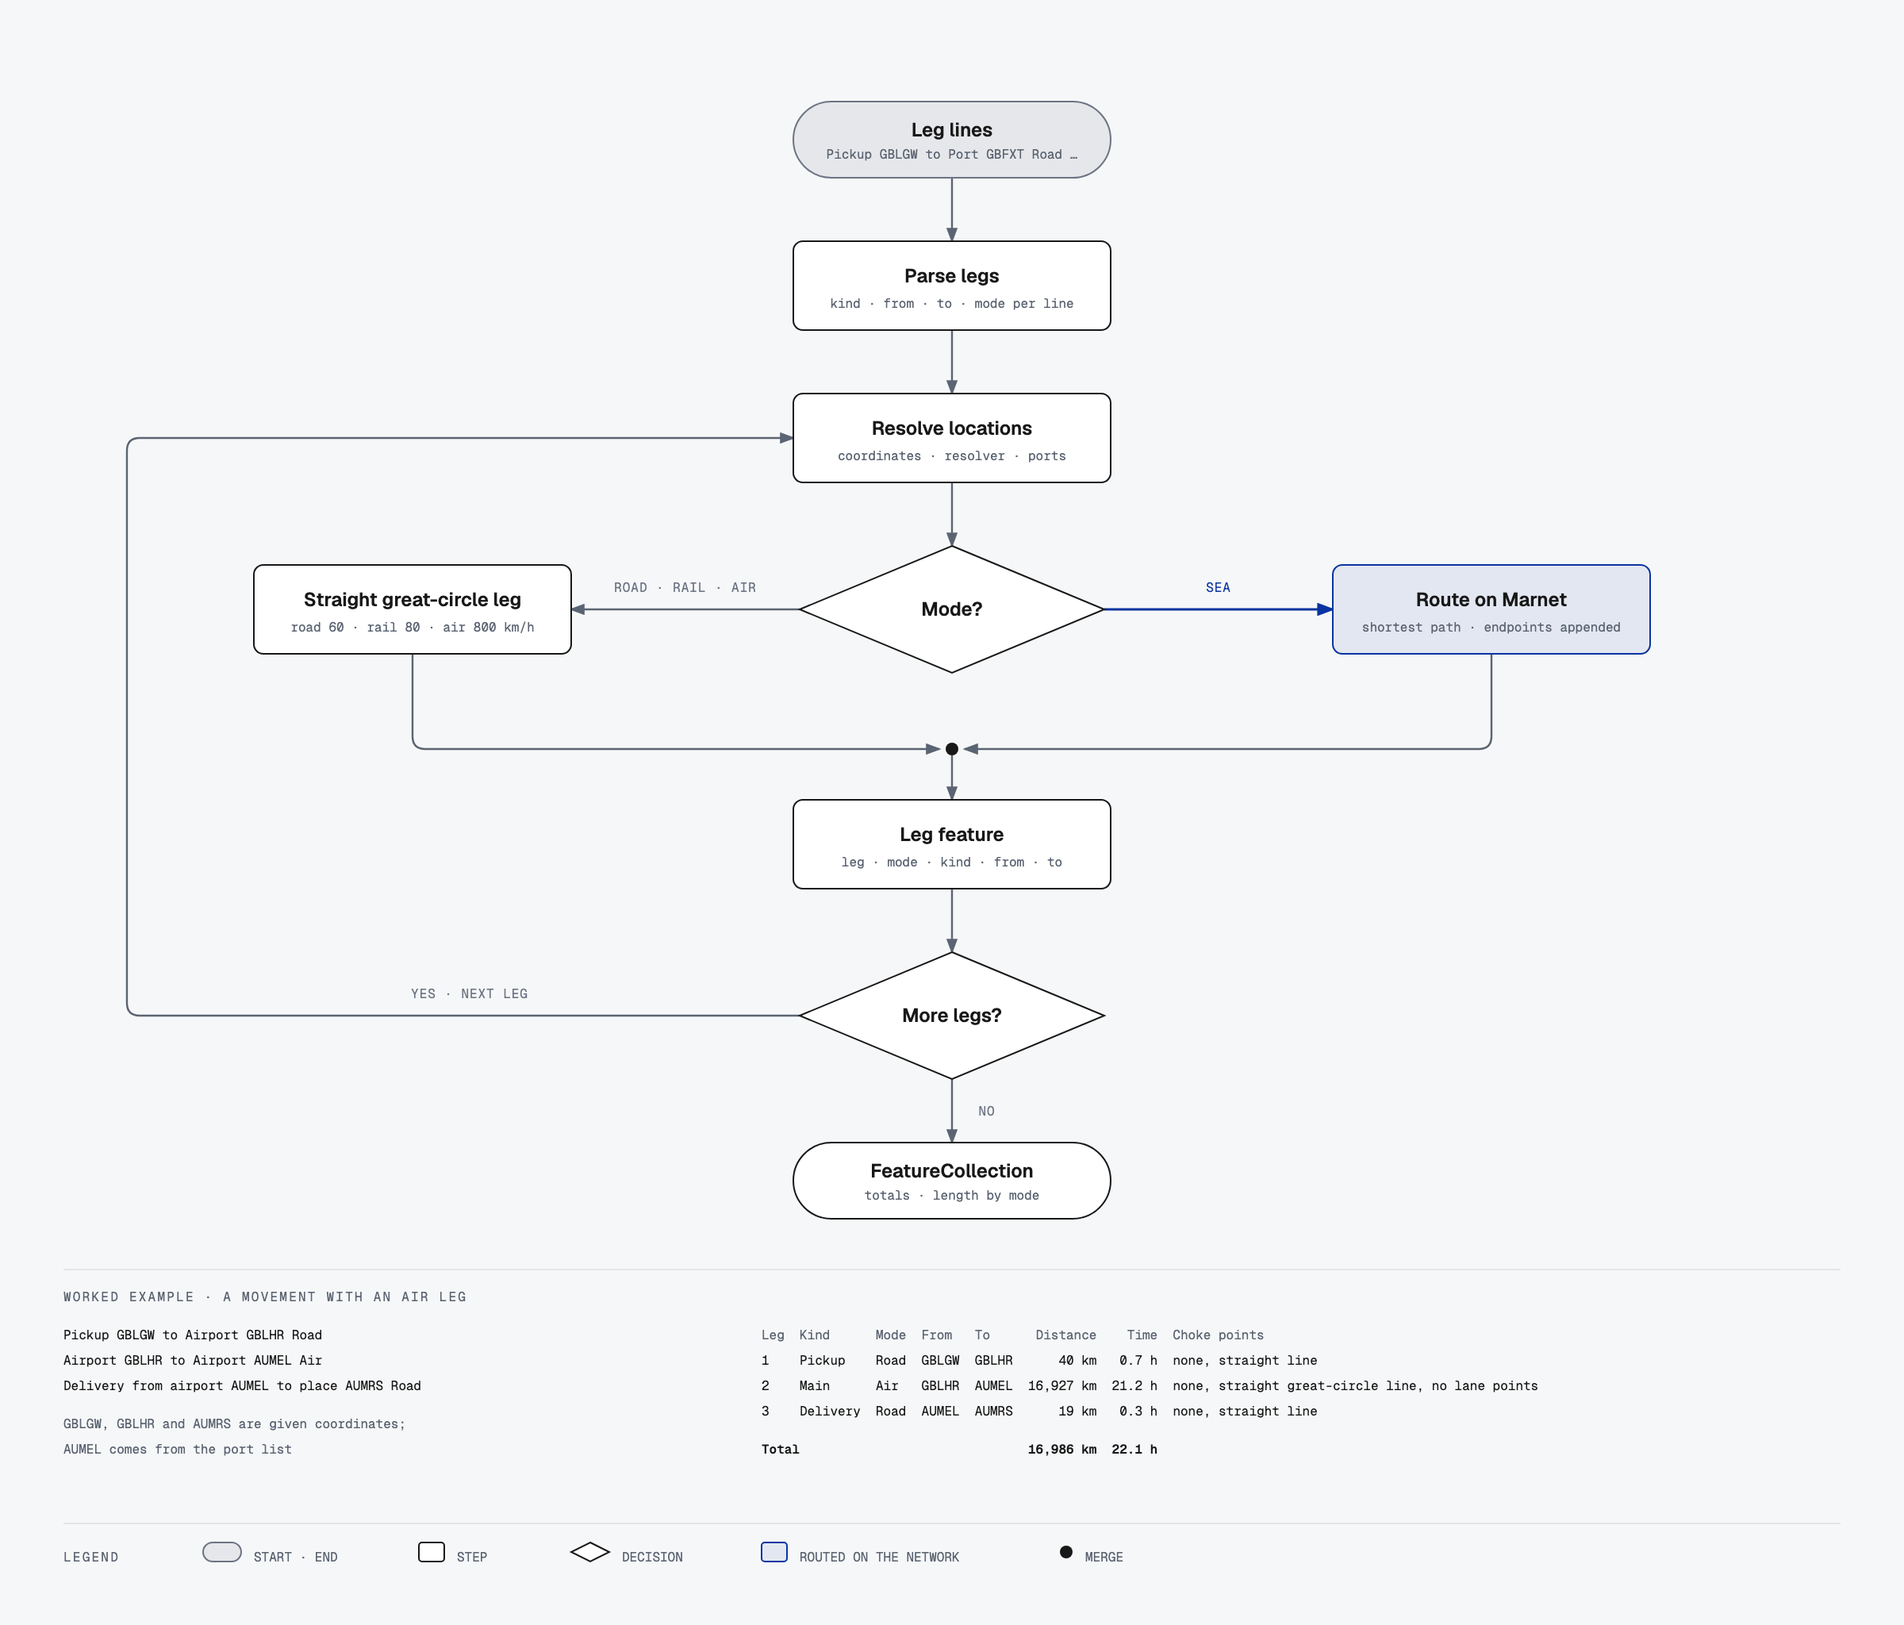
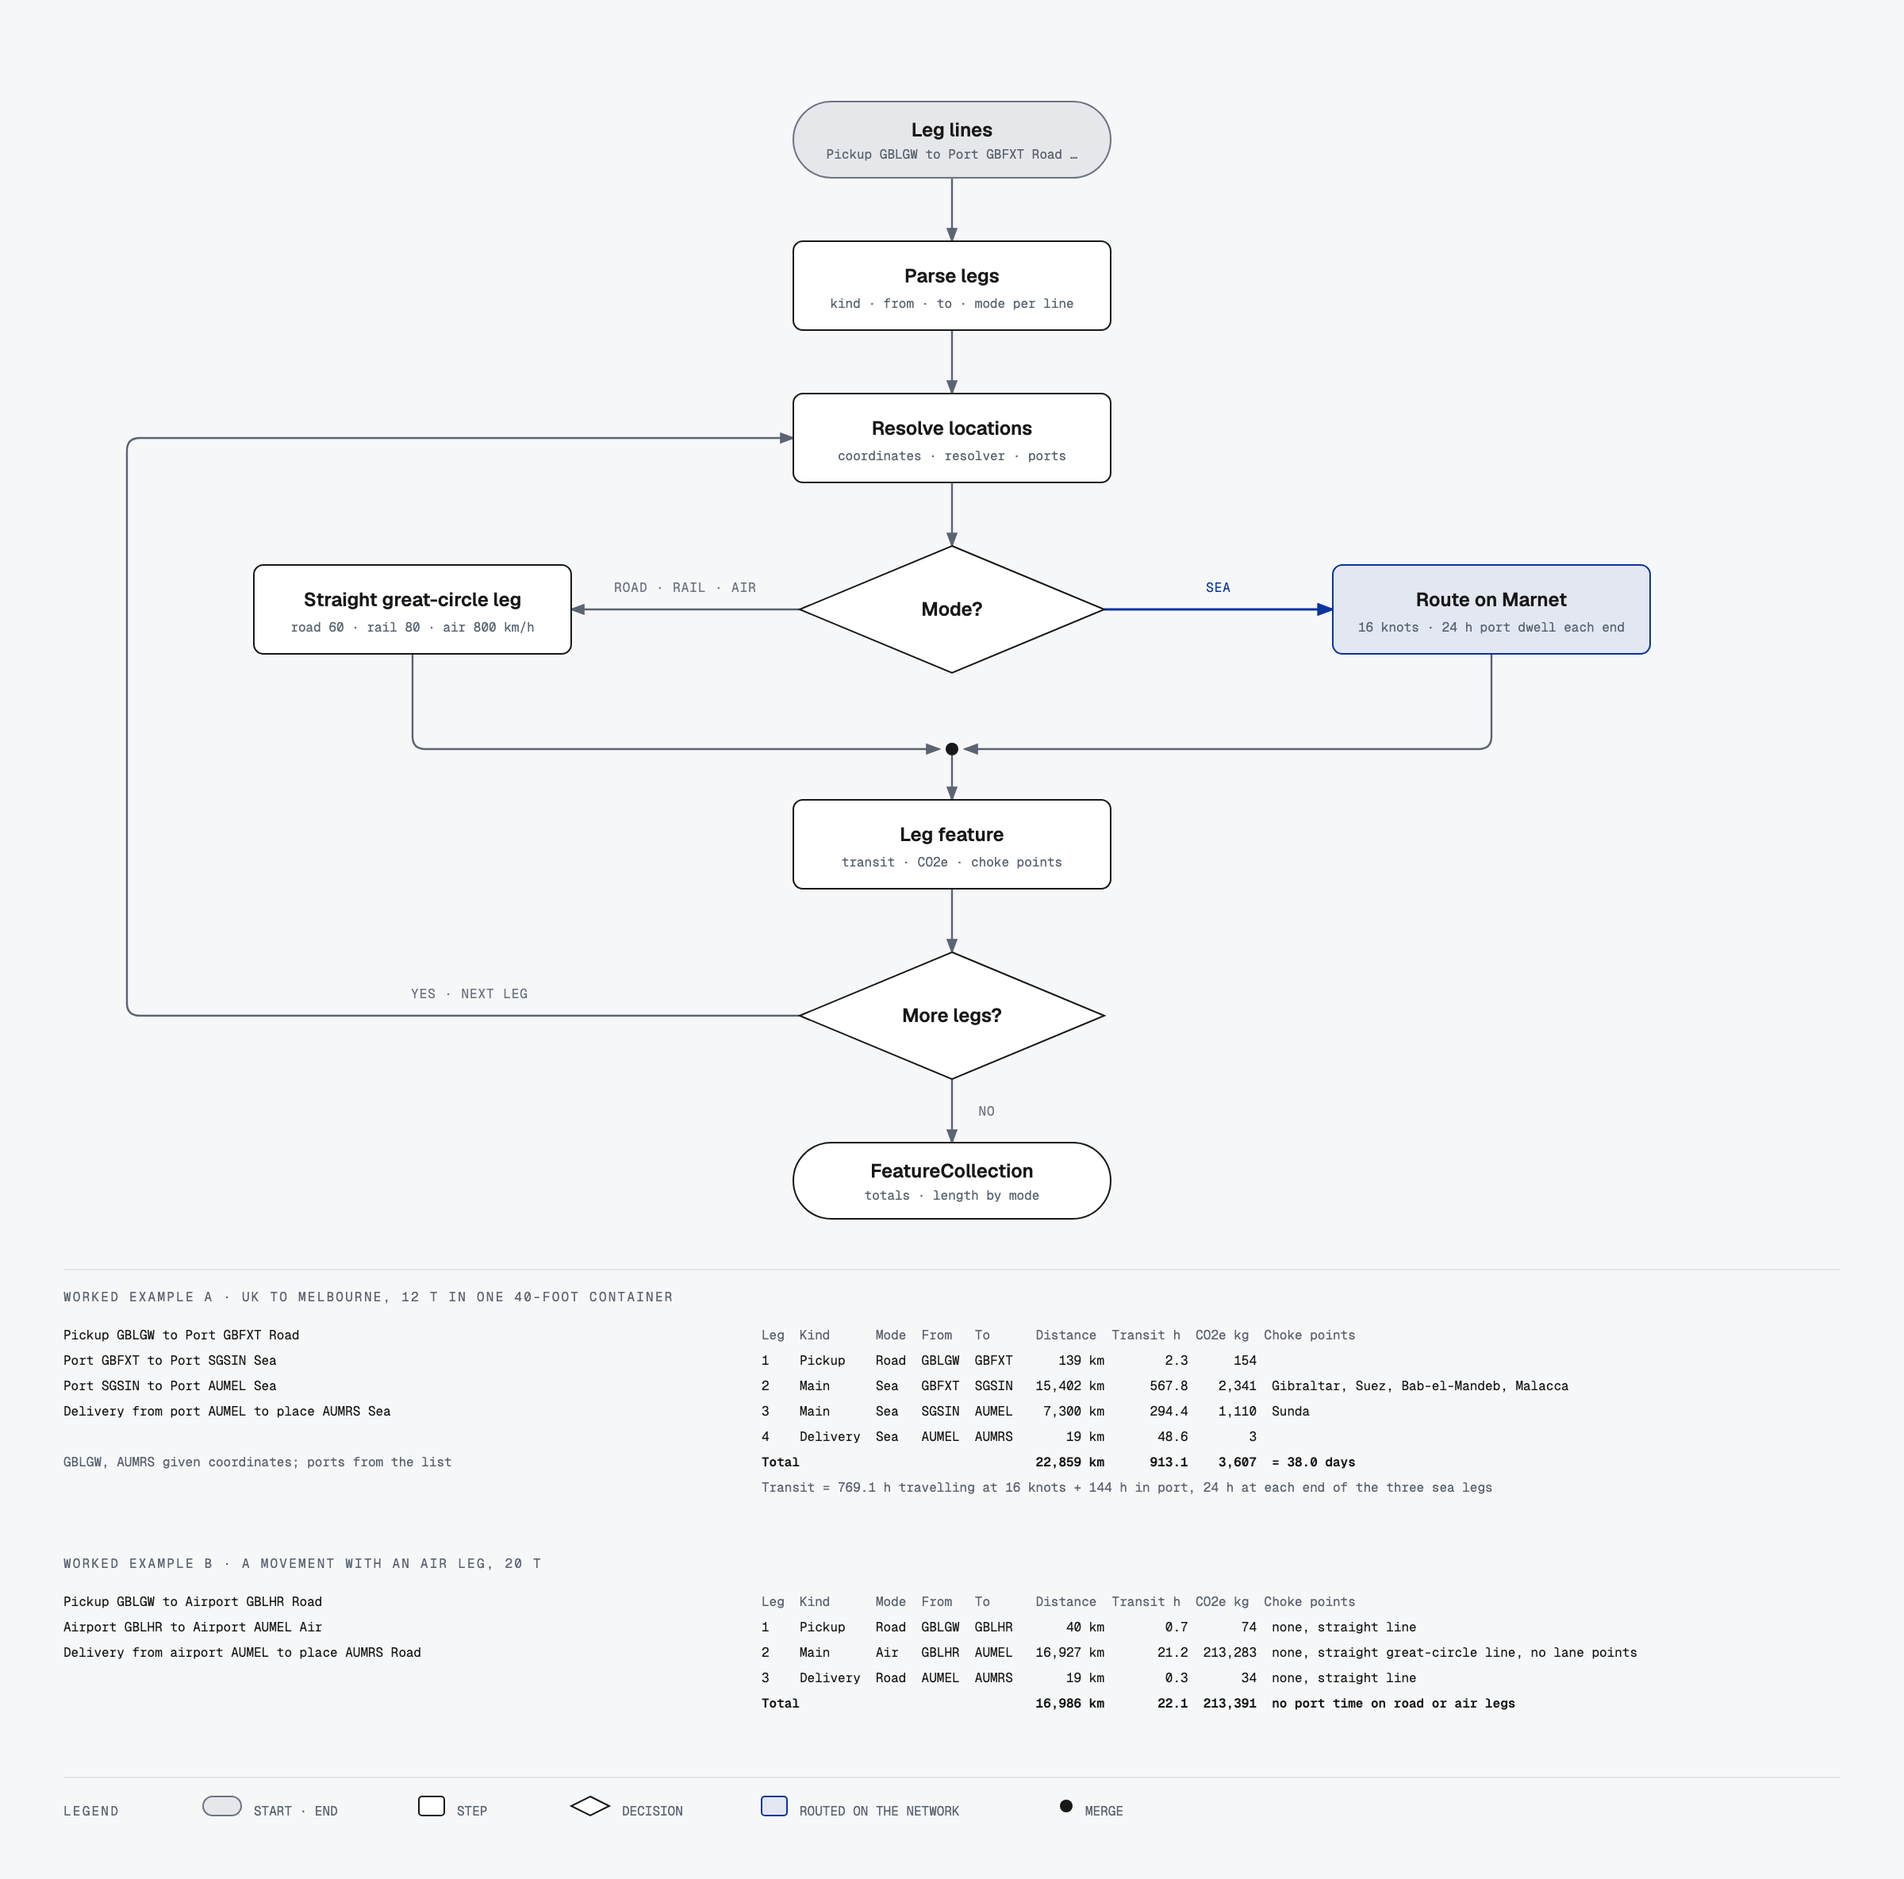
Movement diagram: 16 knot speed and port dwell on the network step, worked examples with transit split

diff --git a/docs/diagrams/movement-flow.html b/docs/diagrams/movement-flow.html
@@ -53,9 +53,9 @@
     <p class="eyebrow">Flowchart · SeaRoute.Net</p>
     <h1>How a multi-leg movement is routed</h1>
 
-    <svg viewBox="0 0 1200 1024" xmlns="http://www.w3.org/2000/svg" role="img" aria-labelledby="movement-flow-title movement-flow-desc">
+    <svg viewBox="0 0 1200 1184" xmlns="http://www.w3.org/2000/svg" role="img" aria-labelledby="movement-flow-title movement-flow-desc">
       <title id="movement-flow-title">SeaRoute.Net movement flow</title>
-      <desc id="movement-flow-desc">Flowchart showing leg lines parsed into legs, each leg's locations resolved, sea legs routed on the Marnet network and road, rail or air legs measured as straight great-circle lines with no lane points or choke points, each producing a leg feature, looping until all legs are done and returning a GeoJSON FeatureCollection with totals. A strip below shows a movement with an air leg from Heathrow to Melbourne.</desc>
+      <desc id="movement-flow-desc">Flowchart showing leg lines parsed into legs, each leg's locations resolved, sea legs routed on the Marnet network and road, rail or air legs measured as straight great-circle lines with no lane points or choke points, each producing a leg feature, looping until all legs are done and returning a GeoJSON FeatureCollection with totals. Strips below show a UK to Melbourne movement with its transit time split into travelling and port hours, and a movement with an air leg from Heathrow to Melbourne.</desc>
       <defs>
         <marker id="arrow" markerWidth="8" markerHeight="6" refX="7" refY="3" orient="auto"><polygon points="0 0, 8 3, 0 6" fill="#5b6472"/></marker>
         <marker id="arrow-accent" markerWidth="8" markerHeight="6" refX="7" refY="3" orient="auto"><polygon points="0 0, 8 3, 0 6" fill="#0a34a1"/></marker>
@@ -121,7 +121,7 @@
       <rect x="840" y="356" width="200" height="56" rx="6" fill="#f6f7f8"/>
       <rect x="840" y="356" width="200" height="56" rx="6" fill="rgba(10,52,161,0.08)" stroke="#0a34a1" stroke-width="1"/>
       <text x="940" y="382" fill="#181818" font-size="12" font-weight="600" font-family="'Geist', sans-serif" text-anchor="middle">Route on Marnet</text>
-      <text x="940" y="398" fill="#5b6472" font-size="8" font-family="'Geist Mono', monospace" text-anchor="middle">shortest path · endpoints appended</text>
+      <text x="940" y="398" fill="#5b6472" font-size="8" font-family="'Geist Mono', monospace" text-anchor="middle">16 knots · 24 h port dwell each end</text>
 
       <!-- Straight great-circle leg -->
       <rect x="160" y="356" width="200" height="56" rx="6" fill="#f6f7f8"/>
@@ -136,7 +136,7 @@
       <rect x="500" y="504" width="200" height="56" rx="6" fill="#f6f7f8"/>
       <rect x="500" y="504" width="200" height="56" rx="6" fill="#ffffff" stroke="#181818" stroke-width="1"/>
       <text x="600" y="530" fill="#181818" font-size="12" font-weight="600" font-family="'Geist', sans-serif" text-anchor="middle">Leg feature</text>
-      <text x="600" y="546" fill="#5b6472" font-size="8" font-family="'Geist Mono', monospace" text-anchor="middle">leg · mode · kind · from · to</text>
+      <text x="600" y="546" fill="#5b6472" font-size="8" font-family="'Geist Mono', monospace" text-anchor="middle">transit · CO2e · choke points</text>
 
       <!-- Decision: More legs? -->
       <polygon points="600,600 696,640 600,680 504,640" fill="#f6f7f8"/>
@@ -149,33 +149,44 @@
       <text x="600" y="742" fill="#181818" font-size="12" font-weight="600" font-family="'Geist', sans-serif" text-anchor="middle">FeatureCollection</text>
       <text x="600" y="756" fill="#5b6472" font-size="8" font-family="'Geist Mono', monospace" text-anchor="middle">totals · length by mode</text>
 
-      <!-- Worked example: a movement with an air leg -->
+      <!-- Worked examples -->
       <line x1="40" y1="800" x2="1160" y2="800" stroke="rgba(24,24,24,0.10)" stroke-width="0.8"/>
-      <text x="40" y="820" fill="#5b6472" font-size="8" font-family="'Geist Mono', monospace" letter-spacing="0.14em">WORKED EXAMPLE · A MOVEMENT WITH AN AIR LEG</text>
-      <text x="40" y="844" fill="#181818" font-size="8" font-family="'Geist Mono', monospace">Pickup GBLGW to Airport GBLHR Road</text>
-      <text x="40" y="860" fill="#181818" font-size="8" font-family="'Geist Mono', monospace">Airport GBLHR to Airport AUMEL Air</text>
-      <text x="40" y="876" fill="#181818" font-size="8" font-family="'Geist Mono', monospace">Delivery from airport AUMEL to place AUMRS Road</text>
-      <text x="40" y="900" fill="#5b6472" font-size="8" font-family="'Geist Mono', monospace">GBLGW, GBLHR and AUMRS are given coordinates;</text>
-      <text x="40" y="916" fill="#5b6472" font-size="8" font-family="'Geist Mono', monospace">AUMEL comes from the port list</text>
-      <text x="480" y="844" fill="#5b6472" font-size="8" font-family="'Geist Mono', monospace" xml:space="preserve">Leg  Kind      Mode  From   To      Distance    Time  Choke points</text>
-      <text x="480" y="860" fill="#181818" font-size="8" font-family="'Geist Mono', monospace" xml:space="preserve">1    Pickup    Road  GBLGW  GBLHR      40 km   0.7 h  none, straight line</text>
-      <text x="480" y="876" fill="#181818" font-size="8" font-family="'Geist Mono', monospace" xml:space="preserve">2    Main      Air   GBLHR  AUMEL  16,927 km  21.2 h  none, straight great-circle line, no lane points</text>
-      <text x="480" y="892" fill="#181818" font-size="8" font-family="'Geist Mono', monospace" xml:space="preserve">3    Delivery  Road  AUMEL  AUMRS      19 km   0.3 h  none, straight line</text>
-      <text x="480" y="916" fill="#181818" font-size="8" font-weight="600" font-family="'Geist Mono', monospace" xml:space="preserve">Total                              16,986 km  22.1 h</text>
+      <text x="40" y="820" fill="#5b6472" font-size="8" font-family="'Geist Mono', monospace" letter-spacing="0.14em">WORKED EXAMPLE A · UK TO MELBOURNE, 12 T IN ONE 40-FOOT CONTAINER</text>
+      <text x="40" y="844" fill="#181818" font-size="8" font-family="'Geist Mono', monospace" xml:space="preserve">Pickup GBLGW to Port GBFXT Road</text>
+      <text x="40" y="860" fill="#181818" font-size="8" font-family="'Geist Mono', monospace" xml:space="preserve">Port GBFXT to Port SGSIN Sea</text>
+      <text x="40" y="876" fill="#181818" font-size="8" font-family="'Geist Mono', monospace" xml:space="preserve">Port SGSIN to Port AUMEL Sea</text>
+      <text x="40" y="892" fill="#181818" font-size="8" font-family="'Geist Mono', monospace" xml:space="preserve">Delivery from port AUMEL to place AUMRS Sea</text>
+      <text x="40" y="924" fill="#5b6472" font-size="8" font-family="'Geist Mono', monospace" xml:space="preserve">GBLGW, AUMRS given coordinates; ports from the list</text>
+      <text x="480" y="844" fill="#5b6472" font-size="8" font-family="'Geist Mono', monospace" xml:space="preserve">Leg  Kind      Mode  From   To      Distance  Transit h  CO2e kg  Choke points</text>
+      <text x="480" y="860" fill="#181818" font-size="8" font-family="'Geist Mono', monospace" xml:space="preserve">1    Pickup    Road  GBLGW  GBFXT      139 km        2.3      154</text>
+      <text x="480" y="876" fill="#181818" font-size="8" font-family="'Geist Mono', monospace" xml:space="preserve">2    Main      Sea   GBFXT  SGSIN   15,402 km      567.8    2,341  Gibraltar, Suez, Bab-el-Mandeb, Malacca</text>
+      <text x="480" y="892" fill="#181818" font-size="8" font-family="'Geist Mono', monospace" xml:space="preserve">3    Main      Sea   SGSIN  AUMEL    7,300 km      294.4    1,110  Sunda</text>
+      <text x="480" y="908" fill="#181818" font-size="8" font-family="'Geist Mono', monospace" xml:space="preserve">4    Delivery  Sea   AUMEL  AUMRS       19 km       48.6        3</text>
+      <text x="480" y="924" fill="#181818" font-size="8" font-family="'Geist Mono', monospace" font-weight="600" xml:space="preserve">Total                               22,859 km      913.1    3,607  = 38.0 days</text>
+      <text x="480" y="940" fill="#5b6472" font-size="8" font-family="'Geist Mono', monospace" xml:space="preserve">Transit = 769.1 h travelling at 16 knots + 144 h in port, 24 h at each end of the three sea legs</text>
+      <text x="40" y="988" fill="#5b6472" font-size="8" font-family="'Geist Mono', monospace" letter-spacing="0.14em">WORKED EXAMPLE B · A MOVEMENT WITH AN AIR LEG, 20 T</text>
+      <text x="40" y="1012" fill="#181818" font-size="8" font-family="'Geist Mono', monospace" xml:space="preserve">Pickup GBLGW to Airport GBLHR Road</text>
+      <text x="40" y="1028" fill="#181818" font-size="8" font-family="'Geist Mono', monospace" xml:space="preserve">Airport GBLHR to Airport AUMEL Air</text>
+      <text x="40" y="1044" fill="#181818" font-size="8" font-family="'Geist Mono', monospace" xml:space="preserve">Delivery from airport AUMEL to place AUMRS Road</text>
+      <text x="480" y="1012" fill="#5b6472" font-size="8" font-family="'Geist Mono', monospace" xml:space="preserve">Leg  Kind      Mode  From   To      Distance  Transit h  CO2e kg  Choke points</text>
+      <text x="480" y="1028" fill="#181818" font-size="8" font-family="'Geist Mono', monospace" xml:space="preserve">1    Pickup    Road  GBLGW  GBLHR       40 km        0.7       74  none, straight line</text>
+      <text x="480" y="1044" fill="#181818" font-size="8" font-family="'Geist Mono', monospace" xml:space="preserve">2    Main      Air   GBLHR  AUMEL   16,927 km       21.2  213,283  none, straight great-circle line, no lane points</text>
+      <text x="480" y="1060" fill="#181818" font-size="8" font-family="'Geist Mono', monospace" xml:space="preserve">3    Delivery  Road  AUMEL  AUMRS       19 km        0.3       34  none, straight line</text>
+      <text x="480" y="1076" fill="#181818" font-size="8" font-family="'Geist Mono', monospace" font-weight="600" xml:space="preserve">Total                               16,986 km       22.1  213,391  no port time on road or air legs</text>
 
       <!-- Legend strip -->
-      <line x1="40" y1="960" x2="1160" y2="960" stroke="rgba(24,24,24,0.10)" stroke-width="0.8"/>
-      <text x="40" y="984" fill="#5b6472" font-size="8" font-family="'Geist Mono', monospace" letter-spacing="0.14em">LEGEND</text>
-      <rect x="128" y="972" width="24" height="12" rx="6" fill="rgba(91,100,114,0.10)" stroke="#6c7484" stroke-width="1"/>
-      <text x="160" y="984" fill="#5b6472" font-size="8" font-family="'Geist Mono', monospace">START · END</text>
-      <rect x="264" y="972" width="16" height="12" rx="2" fill="#ffffff" stroke="#181818" stroke-width="1"/>
-      <text x="288" y="984" fill="#5b6472" font-size="8" font-family="'Geist Mono', monospace">STEP</text>
-      <polygon points="372,972 384,978 372,984 360,978" fill="#ffffff" stroke="#181818" stroke-width="1"/>
-      <text x="392" y="984" fill="#5b6472" font-size="8" font-family="'Geist Mono', monospace">DECISION</text>
-      <rect x="480" y="972" width="16" height="12" rx="2" fill="rgba(10,52,161,0.08)" stroke="#0a34a1" stroke-width="1"/>
-      <text x="504" y="984" fill="#5b6472" font-size="8" font-family="'Geist Mono', monospace">ROUTED ON THE NETWORK</text>
-      <circle cx="672" cy="978" r="4" fill="#181818"/>
-      <text x="684" y="984" fill="#5b6472" font-size="8" font-family="'Geist Mono', monospace">MERGE</text>
+      <line x1="40" y1="1120" x2="1160" y2="1120" stroke="rgba(24,24,24,0.10)" stroke-width="0.8"/>
+      <text x="40" y="1144" fill="#5b6472" font-size="8" font-family="'Geist Mono', monospace" letter-spacing="0.14em">LEGEND</text>
+      <rect x="128" y="1132" width="24" height="12" rx="6" fill="rgba(91,100,114,0.10)" stroke="#6c7484" stroke-width="1"/>
+      <text x="160" y="1144" fill="#5b6472" font-size="8" font-family="'Geist Mono', monospace">START · END</text>
+      <rect x="264" y="1132" width="16" height="12" rx="2" fill="#ffffff" stroke="#181818" stroke-width="1"/>
+      <text x="288" y="1144" fill="#5b6472" font-size="8" font-family="'Geist Mono', monospace">STEP</text>
+      <polygon points="372,1132 384,1138 372,1144 360,1138" fill="#ffffff" stroke="#181818" stroke-width="1"/>
+      <text x="392" y="1144" fill="#5b6472" font-size="8" font-family="'Geist Mono', monospace">DECISION</text>
+      <rect x="480" y="1132" width="16" height="12" rx="2" fill="rgba(10,52,161,0.08)" stroke="#0a34a1" stroke-width="1"/>
+      <text x="504" y="1144" fill="#5b6472" font-size="8" font-family="'Geist Mono', monospace">ROUTED ON THE NETWORK</text>
+      <circle cx="672" cy="1138" r="4" fill="#181818"/>
+      <text x="684" y="1144" fill="#5b6472" font-size="8" font-family="'Geist Mono', monospace">MERGE</text>
     </svg>
   </div>
 </body>

diff --git a/README.md b/README.md
@@ -213,7 +213,7 @@ var routes = SeaRouteEngine.Default.CalculateRoutes(brussels, tokyo, new SeaRout
 A movement is a list of legs, one per line, in the form `[Pickup|Delivery] [port|place|airport|station|terminal|depot] CODE to [...] CODE MODE`, where MODE is Sea, Road, Rail or Air. Sea legs are routed on the lane network. Road, rail and air legs are straight great-circle lines between their two waypoints, never touching lane points or choke points, with a configurable speed per mode: 60, 80 and 800 km/h by default.
 
 <p align="center">
-  <img src="docs/diagrams/movement-flow.png" alt="SeaRoute.Net movement flow: leg lines are parsed, each leg's locations resolved, sea legs routed on Marnet and road, rail or air legs measured as straight great-circle lines with no lane points or choke points, producing one feature per leg and a FeatureCollection with totals; a strip shows a movement with an air leg from Heathrow to Melbourne" width="70%">
+  <img src="docs/diagrams/movement-flow.png" alt="SeaRoute.Net movement flow: leg lines are parsed, each leg's locations resolved, sea legs routed on Marnet and road, rail or air legs measured as straight great-circle lines with no lane points or choke points, producing one feature per leg and a FeatureCollection with totals; worked examples show a UK to Melbourne movement with its transit time split into travelling and port hours, and a movement with an air leg from Heathrow to Melbourne" width="70%">
 </p>
 
 Source: [docs/diagrams/movement-flow.svg](docs/diagrams/movement-flow.svg) (vector) and [movement-flow.html](docs/diagrams/movement-flow.html).
